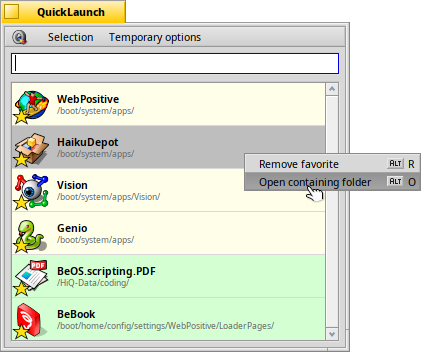
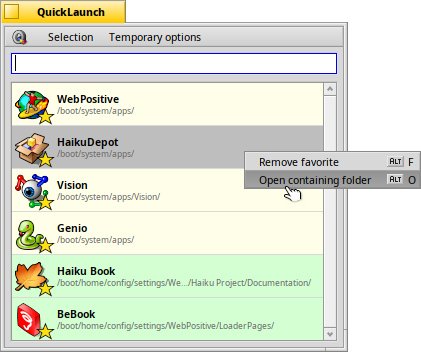
Updated documentation

diff --git a/documentation/ReadMe.html b/documentation/ReadMe.html
@@ -108,7 +108,7 @@ for <a href="https://www.haiku-os.org">Haiku</a><br />
 </div>
 <p>In the main window the context menu was invoked via a right-click.<br />
 The first item adds the selected app to your favorites which will be shown whenever the search field is empty (key-combo: <span class="key">ALT</span>+<span class="key">F</span>).<br />
-The second item adds the app to the ignore list (key-combo: <span class="key">ALT</span>+<span class="key">I</span>; works also with a drag &amp; drop into the ignore list of the setup window). More on that in the setup options discussed below.<br />
+The second item adds the app to the ignore list (key-combo: <span class="key">ALT</span>+<span class="key">A</span>; works also with a drag &amp; drop into the ignore list of the setup window). More on that in the setup options discussed below.<br />
 The final item opens the app's location in a Tracker window (key-combo: <span class="key">ALT</span>+<span class="key">O</span> or <span class="key">CTRL</span>+<span class="key">RETURN</span>).</p>
 
 <p>Those menu items are also found under <span class="menu">Selection</span> in the menu bar.</p>
@@ -123,7 +123,7 @@ The final item opens the app's location in a Tracker window (key-combo: <span cl
 </div>
 <p>The background of favorites is slightly tinted yellow and a little yellow star is added to their icon to distinguish them from a regular search result.</p>
 <p>You add favorites by right-clicking an app's entry in a search result list and choosing <span class="menu">Add to favorites</span> or pressing <span class="key">ALT</span>+<span class="key">F</span>.<br />
-Similarly, you remove a favorite again by right-clicking it and selecting <span class="menu">Remove favorite</span> or with <span class="key">ALT</span>+<span class="key">R</span>.</p>
+Similarly, you remove a favorite again by right-clicking it and selecting <span class="menu">Remove favorite</span> or with <span class="key">ALT</span>+<span class="key">F</span>.</p>
 <p>You can also create a favorite by dragging a file from any Tracker window onto your favorites' list. Even better: The dropped file doesn't have to be an application. Any file or folder will do. Non-application favorites are tinted slightly green to distinguish them from your app favorites.</p>
 
 <p><img src="./images/replicant.png" alt="QuickLaunch replicant favorites" align="left" valign="middle" vspace="5" hspace="32"/>The Deskbar replicant can be activated from the Settings window (see below). It installs the QuickLaunch icon into the Deskbar tray, alongside the clock and the replicants of other applications.<br />
@@ -188,7 +188,7 @@ You can also right-click an app in the main window's result list to add that spe
 <td valign="top">
 <p>The <span class="menu">Temporary options</span> override the configurations in the Settings window. These options are not saved, next time you start QuickLaunch the usual settings are in effect.</p>
 <p>These options are most conveniently applied via their keyboard shortcuts. For example, you may usually prefer to show neither path nor version. Only some searches return several different versions of the same app. Then it's handy to quickly show their path/version with <span class="key">ALT</span>+<span class="key">P</span>&nbsp;/&nbsp;<span class="key">V</span>.<br/>
-Sometimes it's also useful not to limit the search to the start of application names (<span class="key">ALT</span>+<span class="key">S</span>), or to temporarily disable the ignore list (<span class="key">ALT</span>+<span class="key">A</span>).</p>
+Sometimes it's also useful not to limit the search to the start of application names (<span class="key">ALT</span>+<span class="key">S</span>), or to temporarily disable the ignore list (<span class="key">ALT</span>+<span class="key">I</span>).</p>
 </td></tr>
 </table>
 
@@ -237,6 +237,25 @@ Catalan&nbsp;(ca) by&nbsp;Davidmp · Chinese&nbsp;(simplified)&nbsp;(zh-Hans) by
 <h2>
 <a href="#"><img src="images/up.png" style="border:none;float:right" alt="index" /></a>
 <a id="history" name="history">History</a></h2>
+
+<p><b>1.8</b> - <i>11-xx-2024:</i></p>
+<ul>
+<li>Remove buttons, add menu bar.</li>
+<li>Add menu items to temporarily override settings.</li>
+<li>Change some keyboard shortcuts to keep things intuitive with the new temp options.</li>
+<li>Add default entries to ignore list.</li>
+<li>Add button to reset default entries.</li>
+<li>Move favorite star icon to the right for less interference with icons with overlays.</li>
+<li>Always sort items with the same name in the same order and keep the selection on result change if possible. Thanks Máximo!</li>
+<li>Bugfix: Fixed false positives when filtering Trash. Thanks Máximo!</li>
+<li>Bugfix: Sometimes the scrollbar was needlessly active (window slightly too small). Thanks Máximo!</li>
+<li>Bugfix: Fixed rarely encountered 'overfiltering' bug of ignore list. Thanks Máximo!</li>
+<li>Bugfix: Fixed memory leaks. Thanks Máximo!</li>
+<li>Bugfix: Fix crash when mounting/unmounting a volume.</li>
+<li>Bugfix: Fix double entries when setting 'save last term' is active.</li>
+<li>Updated documentation.</li>
+<li>Updated translations.</li>
+</ul>
 
 <p><b>1.7</b> - <i>10-26-2024:</i></p>
 <ul>
